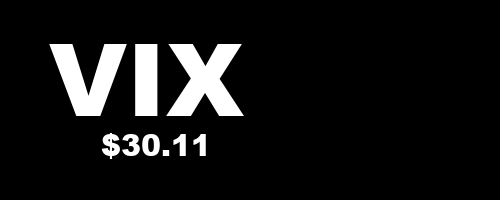
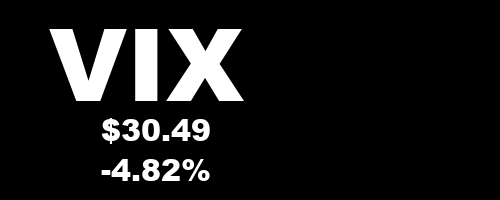
symbol, price, percentage delta

Changed region(s): [[0.09, 0.12, 0.51, 0.93]]

diff --git a/drawing.py b/drawing.py
@@ -10,10 +10,17 @@ sm = 30
 padding = 10
 symobl = "VIX"
 # can get symbls like "MSFT" or "^VIX" (note the karat)
-# vix = get_symbol("^VIX")
-# price = f"${vix.info.get('regularMarketPrice')}"
-# print(f"SYMBOL: {json.dumps(vix.info)}")
-price = "$30.11"
+vix = get_symbol("^VIX")
+print(f"SYMBOL: {json.dumps(vix.info,)}")
+cur_price = vix.info.get('regularMarketPrice')
+lst_price = vix.info.get('previousClose')
+
+delta = (lst_price - cur_price) / cur_price
+prcnt = round(delta * 100,2)
+plus_minus = "-" if cur_price < lst_price else ""
+prcnt_w_symbol = f"{plus_minus}{prcnt}%"
+price = f"${cur_price}"
+
 
 font = ImageFont.truetype(fnt, lg)
 font_sm = ImageFont.truetype(fnt, sm)
@@ -21,8 +28,10 @@ im = Image.new("RGB", (500, 200), bg_clr)
 d = ImageDraw.Draw(im)
 w, h = d.textsize(symobl, font=font)
 x = w * .75
-y = h * 1.05
+y = h * 1.05 - 15
 d.text((x,y), symobl, fill=tx_clr, anchor="ms", font=font)
 d.text((x + padding, y+(sm + padding)), price, fill=tx_clr, anchor="ms", font=font_sm)
+d.text((x + padding, y+((sm + padding) * 2)), prcnt_w_symbol, fill=tx_clr, anchor="ms", font=font_sm)
 
-im.save("image.png")
+im.save("imgs/image.png")
+
